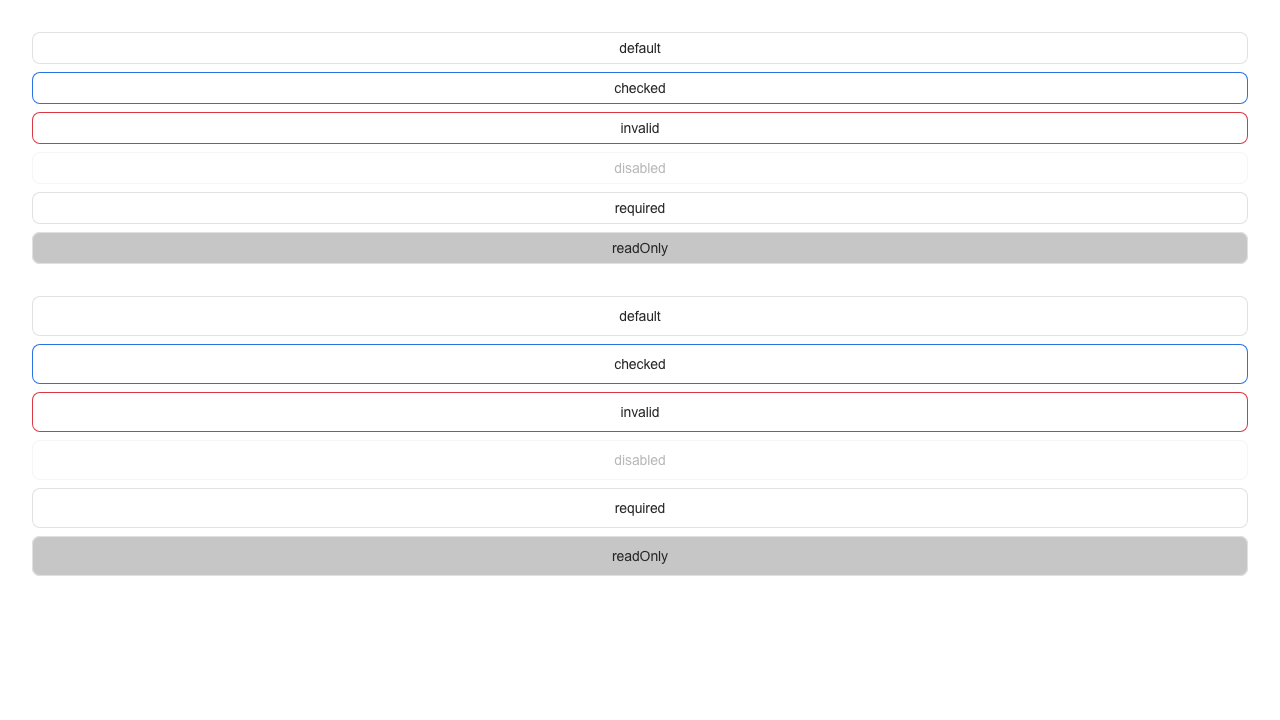
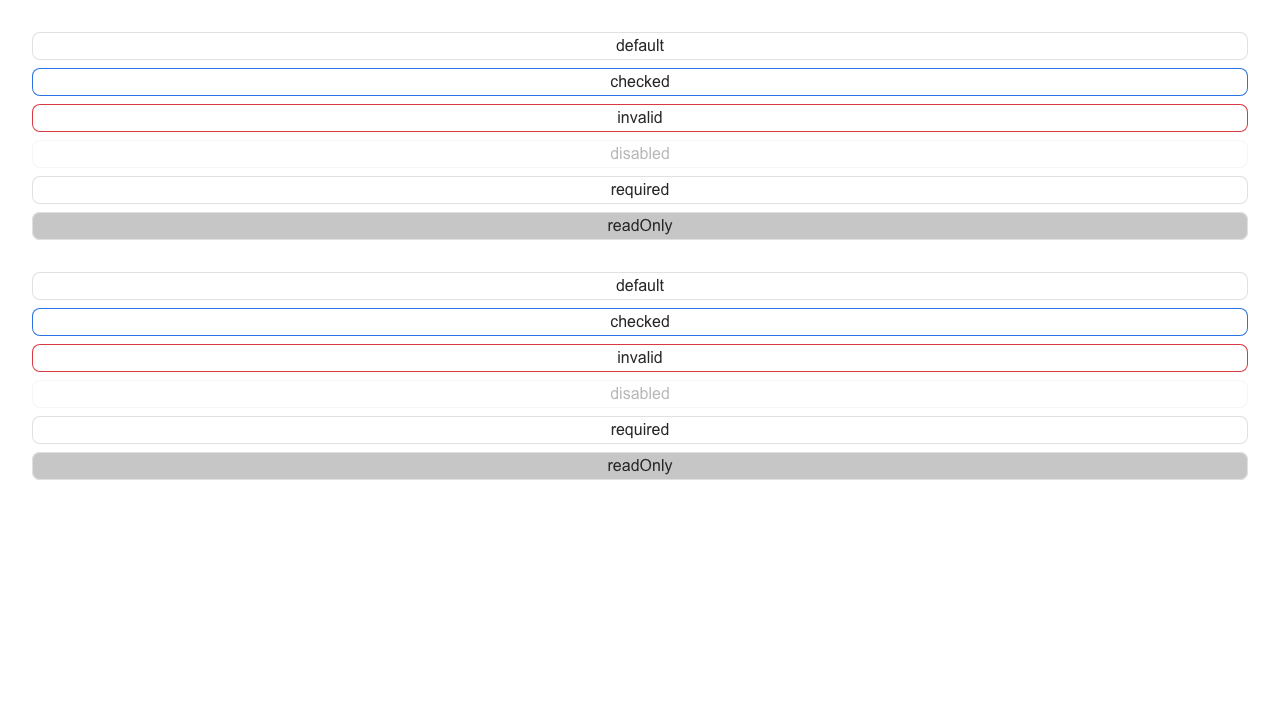
feat(radio-card): remove size prop and typography styling (#442)

Changed region(s): [[0.0, 0.0611, 1.0, 0.4583], [0.0, 0.7028, 1.0, 0.825], [0.0, 0.4889, 1.0, 0.6722]]

diff --git a/apps/website/src/components/demo/examples/radio-card/radio-card-with-content.tsx b/apps/website/src/components/demo/examples/radio-card/radio-card-with-content.tsx
@@ -1,0 +1,54 @@
+import { useState } from 'react';
+
+import { HStack, RadioCard, RadioGroup, Text, VStack } from '@vapor-ui/core';
+
+export default function RadioCardWithContent() {
+    const [value, setValue] = useState('basic');
+
+    return (
+        <div className="space-y-4">
+            <Text typography="body2">선택된 플랜: {value}</Text>
+            <RadioGroup.Root
+                name="pricing-plan"
+                value={value}
+                onValueChange={(newValue) => setValue(newValue as string)}
+            >
+                <HStack gap="$150">
+                    <RadioCard value="basic">
+                        <VStack gap="$50">
+                            <Text typography="subtitle1">Basic</Text>
+                            <Text typography="body2" foreground="hint-100">
+                                $9/month
+                            </Text>
+                            <Text typography="body3" foreground="hint-200">
+                                5 projects included
+                            </Text>
+                        </VStack>
+                    </RadioCard>
+                    <RadioCard value="pro">
+                        <VStack gap="$50">
+                            <Text typography="subtitle1">Pro</Text>
+                            <Text typography="body2" foreground="hint-100">
+                                $29/month
+                            </Text>
+                            <Text typography="body3" foreground="hint-200">
+                                Unlimited projects
+                            </Text>
+                        </VStack>
+                    </RadioCard>
+                    <RadioCard value="enterprise">
+                        <VStack gap="$50">
+                            <Text typography="subtitle1">Enterprise</Text>
+                            <Text typography="body2" foreground="hint-100">
+                                Custom pricing
+                            </Text>
+                            <Text typography="body3" foreground="hint-200">
+                                Advanced features
+                            </Text>
+                        </VStack>
+                    </RadioCard>
+                </HStack>
+            </RadioGroup.Root>
+        </div>
+    );
+}

diff --git a/packages/core/src/components/radio-card/radio-card.stories.tsx b/packages/core/src/components/radio-card/radio-card.stories.tsx
@@ -13,10 +13,6 @@ export default {
         invalid: { control: 'boolean' },
         readOnly: { control: 'boolean' },
         required: { control: 'boolean' },
-        size: {
-            control: 'inline-radio',
-            options: ['md', 'lg'],
-        },
     },
 };
 
@@ -59,22 +55,18 @@ export const TestBed: Story = {
             </RadioGroup.Root>
 
             <RadioGroup.Root defaultValue="checked" name="radio-card-group">
-                <RadioCard size="lg" value="default">
-                    default
-                </RadioCard>
-                <RadioCard size="lg" value="checked">
-                    checked
-                </RadioCard>
-                <RadioCard size="lg" invalid value="invalid">
+                <RadioCard value="default">default</RadioCard>
+                <RadioCard value="checked">checked</RadioCard>
+                <RadioCard invalid value="invalid">
                     invalid
                 </RadioCard>
-                <RadioCard size="lg" disabled value="disabled">
+                <RadioCard disabled value="disabled">
                     disabled
                 </RadioCard>
-                <RadioCard size="lg" required value="required">
+                <RadioCard required value="required">
                     required
                 </RadioCard>
-                <RadioCard size="lg" readOnly value="readOnly">
+                <RadioCard readOnly value="readOnly">
                     readOnly
                 </RadioCard>
             </RadioGroup.Root>

diff --git a/packages/core/src/components/radio-card/radio-card.css.ts b/packages/core/src/components/radio-card/radio-card.css.ts
@@ -3,15 +3,11 @@ import { recipe } from '@vanilla-extract/recipes';
 
 import { interaction } from '~/styles/mixins/interactions.css';
 import { layerStyle } from '~/styles/mixins/layer-style.css';
-import { typography } from '~/styles/mixins/typography.css';
 import { vars } from '~/styles/themes.css';
 
 export const root = recipe({
     base: [
         interaction(),
-        typography({
-            style: 'subtitle1',
-        }),
         layerStyle('components', {
             display: 'flex',
             alignItems: 'center',
@@ -21,6 +17,8 @@ export const root = recipe({
             borderRadius: vars.size.borderRadius[300],
             color: vars.color.foreground.normal[200],
             cursor: 'pointer',
+            paddingBlock: '0.3125rem',
+            paddingInline: vars.size.space['150'],
 
             selectors: {
                 '&[data-checked]': {
@@ -39,22 +37,11 @@ export const root = recipe({
 
     defaultVariants: {
         invalid: false,
-        size: 'md',
     },
 
     variants: {
         invalid: {
             true: {},
-        },
-        size: {
-            md: layerStyle('components', {
-                height: vars.size.dimension['400'],
-                paddingInline: vars.size.space['150'],
-            }),
-            lg: layerStyle('components', {
-                height: vars.size.dimension['500'],
-                paddingInline: vars.size.space['200'],
-            }),
         },
     },
 });

diff --git a/packages/core/src/components/radio-card/radio-card.tsx b/packages/core/src/components/radio-card/radio-card.tsx
@@ -16,17 +16,15 @@ import * as styles from './radio-card.css';
 
 export const RadioCard = forwardRef<HTMLButtonElement, RadioCard.Props>((props, ref) => {
     const { className, ...componentProps } = resolveStyles(props);
-    const { size: contextSize, invalid: contextInvalid } = useRadioGroupContext();
+    const { invalid: contextInvalid } = useRadioGroupContext();
 
     const [variantProps, otherProps] = createSplitProps<RadioCardVariants>()(componentProps, [
         'invalid',
-        'size',
     ]);
 
-    const { size: sizeProp, invalid: invalidProp } = variantProps;
+    const { invalid: invalidProp } = variantProps;
 
     const invalid = invalidProp || contextInvalid;
-    const size = sizeProp || contextSize;
 
     const dataAttrs = createDataAttributes({ invalid });
 
@@ -34,7 +32,7 @@ export const RadioCard = forwardRef<HTMLButtonElement, RadioCard.Props>((props, 
         <BaseRadio.Root
             ref={ref}
             aria-invalid={invalid}
-            className={clsx(styles.root({ size, invalid }), className)}
+            className={clsx(styles.root({ invalid }), className)}
             {...dataAttrs}
             {...otherProps}
         />

diff --git a/.changeset/tough-trams-tell.md b/.changeset/tough-trams-tell.md
@@ -1,0 +1,5 @@
+---
+'@vapor-ui/core': patch
+---
+
+removed the size prop from the RadioCard component and simplified its styling by removing typography mixins
